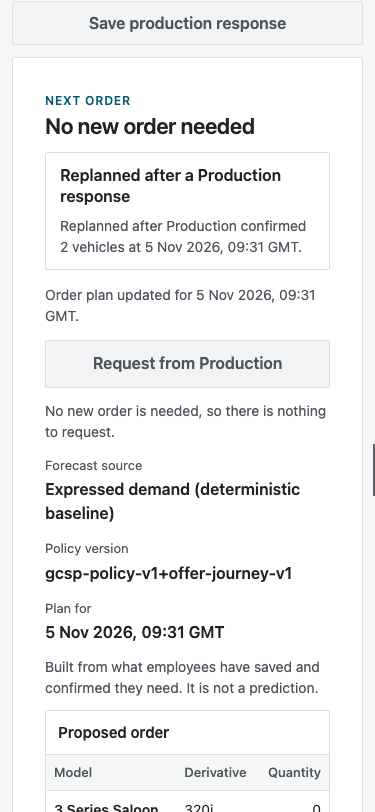
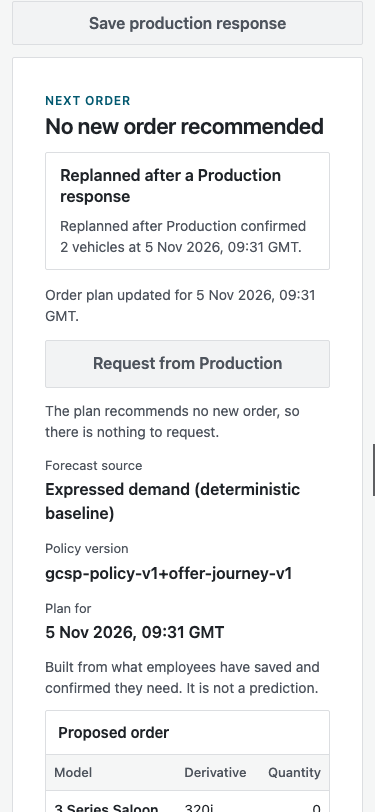
FUCQ-121: browser evidence rerun at e1b0bfb5

Changed region(s): [[0.1173, 0.4926, 0.88, 0.5542], [0.4987, 0.1232, 0.88, 0.1847]]

diff --git a/docs/gcsp/evidence/fucq121/README.md b/docs/gcsp/evidence/fucq121/README.md
@@ -29,9 +29,9 @@ Overflow is page / panel horizontal px (0 / 0 means none). Focus is the element 
 | infeasible | 375 | `infeasible-375.png` | PASS | 0 / 0 | h2: No plan meets these limits |
 | stale | 1280 | `stale-1280.png` | PASS | 0 / 0 | h3: Replan needed |
 | stale | 375 | `stale-375.png` | PASS | 0 / 0 | h3: Replan needed |
-| submitted | 1280 | `submitted-1280.png` | PASS | 0 / 0 | h2: No new order needed |
-| submitted | 375 | `submitted-375.png` | PASS | 0 / 0 | h2: No new order needed |
-| order tracking after submit | 1280 | `order-tracking-after-submit-1280.png` | PASS | 0 / 0 | h2: No new order needed |
+| submitted | 1280 | `submitted-1280.png` | PASS | 0 / 0 | h2: No new order recommended |
+| submitted | 375 | `submitted-375.png` | PASS | 0 / 0 | h2: No new order recommended |
+| order tracking after submit | 1280 | `order-tracking-after-submit-1280.png` | PASS | 0 / 0 | h2: No new order recommended |
 | replanned | 1280 | `replanned-1280.png` | PASS | 0 / 0 | body:  |
 | replanned | 375 | `replanned-375.png` | PASS | 0 / 0 | body:  |
 | loading | 1280 | `fixture-loading-1280.png` | PASS | 0 / 0 | body:  |
@@ -68,7 +68,7 @@ Expected non-2xx responses in the run: favicon 404, employee `manual/draft` 404,
 ## Limitations
 
 - The stale state needs a second window; a Tick in the same window reloads the plan, so it never goes stale there. This is recorded in the manual scenario.
-- The live ready plan proposes no new order ("No new order needed"); an order exists only after a minimum is raised in the editor, as the story anticipated.
+- The live ready plan proposes no new order ("No new order recommended"); an order exists only after a minimum is raised in the editor, as the story anticipated.
 - The employee refusal is shown live as the API 403 plus the absence of the panel; the refused panel itself is the fixture capture. JSON error pages were not screenshotted.
 - Range slider focus is a thumb ring (no CSS outline), confirmed in `limits-editor-*.png`.
 - Contrast and layout were judged by reading each PNG; no automated contrast check was run.
